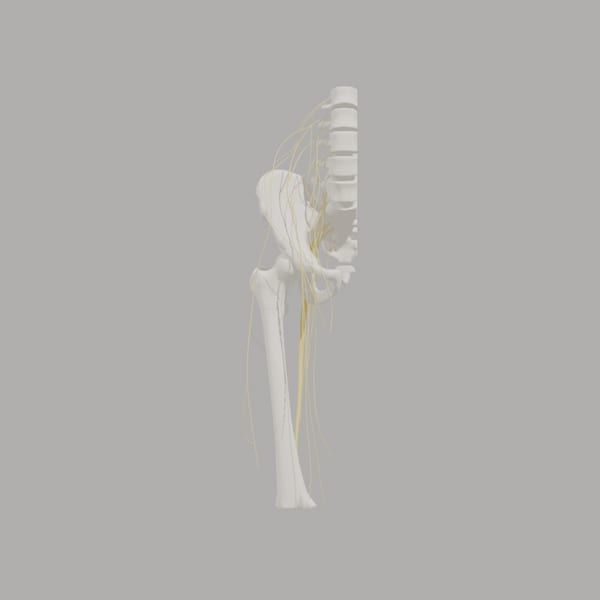
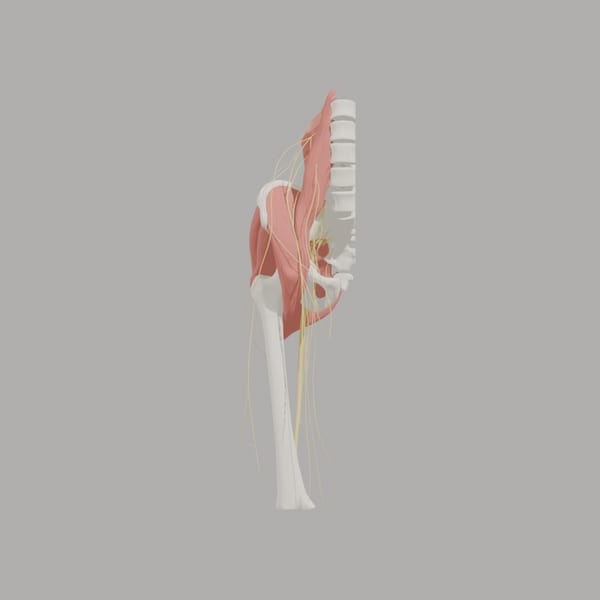
feat: ảnh chụp thật cho 42 thẻ model, sửa ba lỗi của trình render ảnh
Trang danh mục có 93 scene nhưng chỉ 49 scene có ảnh, số còn lại rơi về hình
minh hoạ mặc định. Nay 91 scene có ảnh chụp từ chính model 3D của nó.

Ba lỗi của scripts/blender/render_glb_preview.py, mỗi lỗi đều cho ra một tấm
ảnh MỘT MÀU TRƠN trong khi render vẫn báo thành công nên không ai biết:

1. Camera dùng mặt phẳng cắt gần mặc định 0,1 m của Blender, mà khoảng cách
   camera lại tính theo kích thước vật thể. Model nhỏ hơn 10 cm — xương con
   tai giữa, tai trong, nhãn cầu — đứng gần hơn 0,1 m nên bị xén sạch. Nay mặt
   phẳng cắt co theo kích thước vật thể.
2. Model đối xứng (hai bàn tay, hai chi dưới, hai chuỗi xương con) có hộp bao
   trùm cả khoảng trống giữa hai bên, nên khung hình phải lùi rất xa và mỗi
   bên chỉ còn một chấm nhỏ ở góc ảnh. Thêm tham số chọn một bên.
3. Lệnh ẩn lớp "skin" áp cho mọi model làm trắng hẳn hai scene mạc và mô liên
   kết: pickCat xếp toàn bộ mạc vào lớp da nên lệnh ẩn xoá sạch model.

Thêm tham số thu gần khung hình cho cấu trúc nhỏ và rải rác.

Thẻ NHÓM HỆ trước đây khai ảnh bằng tay nên chỉ 2/17 thẻ có ảnh, dù scene mà
chúng trỏ tới phần lớn đã có ảnh thật. Nay suy thẳng ảnh từ href, còn 12/17.

Năm thẻ còn lại CỐ Ý không có ảnh: hệ sinh sản nữ và mô mỡ vốn không có dữ
liệu; hệ bạch huyết, hệ nội tiết và mô liên kết là các hạch, tuyến và túi hoạt
dịch nhỏ nằm rải khắp người, chụp ra gần như khung trống nên hình minh hoạ
thiết kế sẵn nhìn rõ hơn hẳn.

Changed region(s): [[0.39, 0.12, 0.6, 0.57]]

diff --git a/src/lib/exploreContent.ts b/src/lib/exploreContent.ts
@@ -1,6 +1,6 @@
 import type { T3 } from "./homeContent";
 import {
-  catalogScenes, regionGroups, scenesOfRegion, scenesOfSystem, systemByKey, systemGroups,
+  catalogScenes, getScene, regionGroups, scenesOfRegion, scenesOfSystem, systemByKey, systemGroups,
 } from "./catalog";
 
 export type CategorySlug =
@@ -102,11 +102,27 @@ const systemFilters: FilterTab[] = [
   { key: "female", label: { vi: "Nữ", en: "Female", zh: "女性" } },
 ];
 
-const systemCards: ResultCard[] = [
-  { img: "an-heart", icon: "i-heart", thumb: "/thumbnails/giai-phau-tim.jpg", title: { vi: "Hệ tuần hoàn", en: "Cardiovascular system", zh: "心血管系统" }, filters: ["male", "female"], href: "/giai-phau/mo-hinh/giai-phau-tim", real: true, type: "anatomy" },
-  { img: "an-skel", icon: "i-bone", thumb: "/thumbnails/giai-phau-so.jpg", title: { vi: "Hệ xương", en: "Skeletal system", zh: "骨骼系统" }, filters: ["male", "female"], href: "/giai-phau/mo-hinh/giai-phau-so", real: true, type: "anatomy" },
+/**
+ * Ảnh của thẻ NHÓM HỆ lấy thẳng từ scene mà thẻ trỏ tới.
+ *
+ * Trước đây `thumb` khai tay từng thẻ nên chỉ hai thẻ có ảnh, mười lăm thẻ còn
+ * lại rơi về hình minh hoạ mặc định dù scene đích của chúng ĐÃ có ảnh chụp
+ * thật. Suy ra từ href thì thêm ảnh cho scene nào là thẻ hệ tương ứng tự có
+ * ảnh, không phải nhớ sửa hai chỗ.
+ */
+function thumbOfHref(href: string): string | undefined {
+  const slug = href.startsWith("/giai-phau/mo-hinh/") ? href.slice("/giai-phau/mo-hinh/".length) : null;
+  return slug ? getScene(slug)?.thumb : undefined;
+}
+
+const rawSystemCards: ResultCard[] = [
+  { img: "an-heart", icon: "i-heart", title: { vi: "Hệ tuần hoàn", en: "Cardiovascular system", zh: "心血管系统" }, filters: ["male", "female"], href: "/giai-phau/mo-hinh/giai-phau-tim", real: true, type: "anatomy" },
+  { img: "an-skel", icon: "i-bone", title: { vi: "Hệ xương", en: "Skeletal system", zh: "骨骼系统" }, filters: ["male", "female"], href: "/giai-phau/mo-hinh/giai-phau-so", real: true, type: "anatomy" },
   { img: "an-muscle", icon: "i-muscle", title: { vi: "Hệ cơ", en: "Muscular system", zh: "肌肉系统" }, filters: ["male", "female"], href: "/giai-phau/mo-hinh/co-mat", real: true, type: "anatomy" },
-  { img: "an-skel", icon: "i-bone", title: { vi: "Hệ cơ xương", en: "Musculoskeletal system", zh: "肌肉骨骼系统" }, filters: ["male", "female"], href: "/viewer", real: true, type: "anatomy" },
+  // Thẻ này trỏ vào /viewer (atlas toàn thân) chứ không vào một scene nào nên
+  // không suy được ảnh từ href — phải khai tay. Dùng ảnh bộ xương toàn thân:
+  // ảnh hệ cơ toàn thân bị lớp mạc bọc ngoài che kín, nhìn ra ma-nơ-canh trắng.
+  { img: "an-skel", icon: "i-bone", thumb: "/thumbnails/he-co-xuong.jpg", title: { vi: "Hệ cơ xương", en: "Musculoskeletal system", zh: "肌肉骨骼系统" }, filters: ["male", "female"], href: "/viewer", real: true, type: "anatomy" },
   { img: "an-nerve", icon: "i-brain", title: { vi: "Hệ thần kinh", en: "Nervous system", zh: "神经系统" }, filters: ["male", "female"], href: "/giai-phau/mo-hinh/than-nao-day-so", real: true, type: "anatomy" },
   { img: "an-organ", icon: "i-stomach", title: { vi: "Hệ tiêu hóa", en: "Digestive system", zh: "消化系统" }, filters: ["male", "female"], href: "/giai-phau/mo-hinh/tong-quan-he-tieu-hoa", real: true, type: "anatomy" },
   { img: "an-lung", icon: "i-lungs", title: { vi: "Hệ hô hấp", en: "Respiratory system", zh: "呼吸系统" }, filters: ["male", "female"], href: "/giai-phau/mo-hinh/giai-phau-phoi", real: true, type: "anatomy" },
@@ -124,6 +140,11 @@ const systemCards: ResultCard[] = [
   { img: "an-cell", icon: "i-ear", title: { vi: "Hệ thính giác", en: "Auditory system", zh: "听觉系统" }, filters: ["male", "female"], href: "/giai-phau/mo-hinh/he-thinh-giac", real: true, type: "anatomy" },
   { img: "an-brain", icon: "i-eye", title: { vi: "Hệ thị giác", en: "Visual system", zh: "视觉系统" }, filters: ["male", "female"], href: "/giai-phau/mo-hinh/giai-phau-mat", real: true, type: "anatomy" },
 ];
+
+const systemCards: ResultCard[] = rawSystemCards.map((card) => ({
+  ...card,
+  thumb: card.thumb ?? thumbOfHref(card.href ?? ""),
+}));
 
 /**
  * Thẻ cho mọi scene có model 3D thật — DẪN XUẤT từ `catalog` thay vì liệt kê

diff --git a/src/lib/catalog.ts b/src/lib/catalog.ts
@@ -189,6 +189,53 @@ export type CatalogScene = {
 
 /** Thumbnail đã chụp thật. Scene chưa có ảnh sẽ dùng icon theo hệ. */
 const thumbnails: Record<string, string> = {
+  // Đợt render 14/08/2026: bổ sung ảnh thật cho 42 scene trước đây rơi về
+  // hình minh hoạ mặc định. Hai scene "he-noi-tiet" và "mo-lien-ket" CỐ Ý
+  // không có ảnh: cấu trúc của chúng là các tuyến và túi hoạt dịch nhỏ nằm
+  // rải khắp người, chụp ra gần như một khung trống — hình minh hoạ thiết
+  // kế sẵn nhìn rõ ràng hơn hẳn một tấm ảnh trống.
+  "ban-chan": "/thumbnails/ban-chan.jpg",
+  "ban-tay": "/thumbnails/ban-tay.jpg",
+  "bo-rang": "/thumbnails/bo-rang.jpg",
+  "chi-duoi": "/thumbnails/chi-duoi.jpg",
+  "co-bung": "/thumbnails/co-bung.jpg",
+  "co-canh-tay": "/thumbnails/co-canh-tay.jpg",
+  "co-dui-mong": "/thumbnails/co-dui-mong.jpg",
+  "co-hoanh": "/thumbnails/co-hoanh.jpg",
+  "co-mat": "/thumbnails/co-mat.jpg",
+  "co-that-hau-mon": "/thumbnails/co-that-hau-mon.jpg",
+  "cot-song": "/thumbnails/cot-song.jpg",
+  "da-giac-willis": "/thumbnails/da-giac-willis.jpg",
+  "dai-vai-chi-tren": "/thumbnails/dai-vai-chi-tren.jpg",
+  "dong-mach-vanh": "/thumbnails/dong-mach-vanh.jpg",
+  "giai-phau-co": "/thumbnails/giai-phau-co.jpg",
+  "giai-phau-dau": "/thumbnails/giai-phau-dau.jpg",
+  "giai-phau-gan": "/thumbnails/giai-phau-gan.jpg",
+  "giai-phau-mat": "/thumbnails/giai-phau-mat.jpg",
+  "giai-phau-phoi": "/thumbnails/giai-phau-phoi.jpg",
+  "giai-phau-than": "/thumbnails/giai-phau-than.jpg",
+  "giai-phau-tuy": "/thumbnails/giai-phau-tuy.jpg",
+  "gian-nao-he-vien": "/thumbnails/gian-nao-he-vien.jpg",
+  "he-mac": "/thumbnails/he-mac.jpg",
+  "he-sinh-san-nam": "/thumbnails/he-sinh-san-nam.jpg",
+  "he-thinh-giac": "/thumbnails/he-thinh-giac.jpg",
+  "he-tiet-nieu": "/thumbnails/he-tiet-nieu.jpg",
+  "long-nguc": "/thumbnails/long-nguc.jpg",
+  "mat-cat-da-day": "/thumbnails/mat-cat-da-day.jpg",
+  "mat-cat-dong-mach": "/thumbnails/mat-cat-dong-mach.jpg",
+  "mat-cat-ngang-bung": "/thumbnails/mat-cat-ngang-bung.jpg",
+  "mat-cat-ruot-gia": "/thumbnails/mat-cat-ruot-gia.jpg",
+  "mat-cat-ruot-non": "/thumbnails/mat-cat-ruot-non.jpg",
+  "mat-cat-tinh-mach": "/thumbnails/mat-cat-tinh-mach.jpg",
+  "mat-cat-tui-mat": "/thumbnails/mat-cat-tui-mat.jpg",
+  "mat-cat-vanh-tim": "/thumbnails/mat-cat-vanh-tim.jpg",
+  "phuc-mac": "/thumbnails/phuc-mac.jpg",
+  "than-nao-day-so": "/thumbnails/than-nao-day-so.jpg",
+  "thanh-quan": "/thumbnails/thanh-quan.jpg",
+  "tieu-nao": "/thumbnails/tieu-nao.jpg",
+  "tong-quan-he-tieu-hoa": "/thumbnails/tong-quan-he-tieu-hoa.jpg",
+  "xuong-chau": "/thumbnails/xuong-chau.jpg",
+  "xuong-con-tai-giua": "/thumbnails/xuong-con-tai-giua.jpg",
   "giai-phau-tim": "/thumbnails/giai-phau-tim.jpg",
   "giai-phau-so": "/thumbnails/giai-phau-so.jpg",
   "giai-phau-canh-tay": "/thumbnails/giai-phau-canh-tay.jpg",

diff --git a/scripts/blender/render_glb_preview.py b/scripts/blender/render_glb_preview.py
@@ -13,6 +13,14 @@ GLB, OUT = os.path.abspath(args[0]), os.path.abspath(args[1])
 SKIN_ALPHA = float(args[2]) if len(args) > 2 else 1.0
 FRAME = args[3] if len(args) > 3 else "head"   # "head" | "eye"
 HIDE = set((args[4].split(",") if len(args) > 4 else []))  # cat ẩn, vd "skin,muscle,bone"
+# Hệ số khoảng cách camera. <1 là thu gần lại: cấu trúc nhỏ và rải rác (hạch
+# bạch huyết, tuyến nội tiết, xương con tai giữa) có hộp bao trải rộng nhưng
+# vật thể chỉ là mấy chấm, khung mặc định chụp ra gần như một tấm ảnh trống.
+ZOOM = float(args[5]) if len(args) > 5 else 1.0
+# "r"/"l" = chỉ giữ một bên cơ thể. Model đối xứng (hai bàn tay, hai nhãn cầu,
+# hai chuỗi xương con) có hộp bao trùm cả KHOẢNG TRỐNG giữa hai bên, nên khung
+# hình phải lùi thật xa và mỗi bên chỉ còn một chấm nhỏ ở góc.
+SIDE = args[6] if len(args) > 6 else ""
 
 # wipe default scene
 bpy.ops.wm.read_factory_settings(use_empty=True)
@@ -86,6 +94,15 @@ for k,c in COL.items():
     mats[k]=m
 
 objs=[o for o in bpy.data.objects if o.type=='MESH']
+if SIDE in ("r", "l"):
+    other = ".l" if SIDE == "r" else ".r"
+    for o in list(objs):
+        nm = o.name.lower()
+        # tên có dạng "Scaphoid bone.l" hoặc "Median nerve.l.001"
+        if nm.endswith(other) or (other + ".") in nm:
+            bpy.data.objects.remove(o, do_unlink=True)
+    objs=[o for o in bpy.data.objects if o.type=='MESH']
+
 # ẩn (xoá) các mesh thuộc cat trong HIDE (gộp cat con về cat gốc)
 if HIDE:
     for o in list(objs):
@@ -111,8 +128,14 @@ else:
 
 # camera nhìn THẲNG mặt trước (-Y), hơi chếch, ngang tầm -> hợp cả vật thể dọc (cổ) lẫn tròn
 maxd=max(dims.x, dims.z)   # bề rộng biểu kiến mặt trước
-dist=max(maxd, dims.x)*1.9 + rad*0.2
+dist=(max(maxd, dims.x)*1.9 + rad*0.2) * ZOOM
 cam_d=bpy.data.cameras.new("c"); cam=bpy.data.objects.new("c",cam_d)
+# Mặt phẳng cắt phải co theo KÍCH THƯỚC VẬT THỂ. Mặc định của Blender là cắt gần
+# 0,1 m: model nhỏ (xương con tai giữa 4mm, tai trong 4cm, nhãn cầu 3cm) đứng
+# cách camera chưa tới 0,1 m nên bị xén sạch — ảnh ra một màu nền trơn mà render
+# vẫn báo thành công, không có lỗi nào để mà biết.
+cam_d.clip_start = max(dist * 0.001, 1e-5)
+cam_d.clip_end = dist * 100
 bpy.context.scene.collection.objects.link(cam)
 cam.location=ctr+Vector((dims.x*0.5, -dist, dims.z*0.06))
 dir=(ctr-cam.location).normalized()
